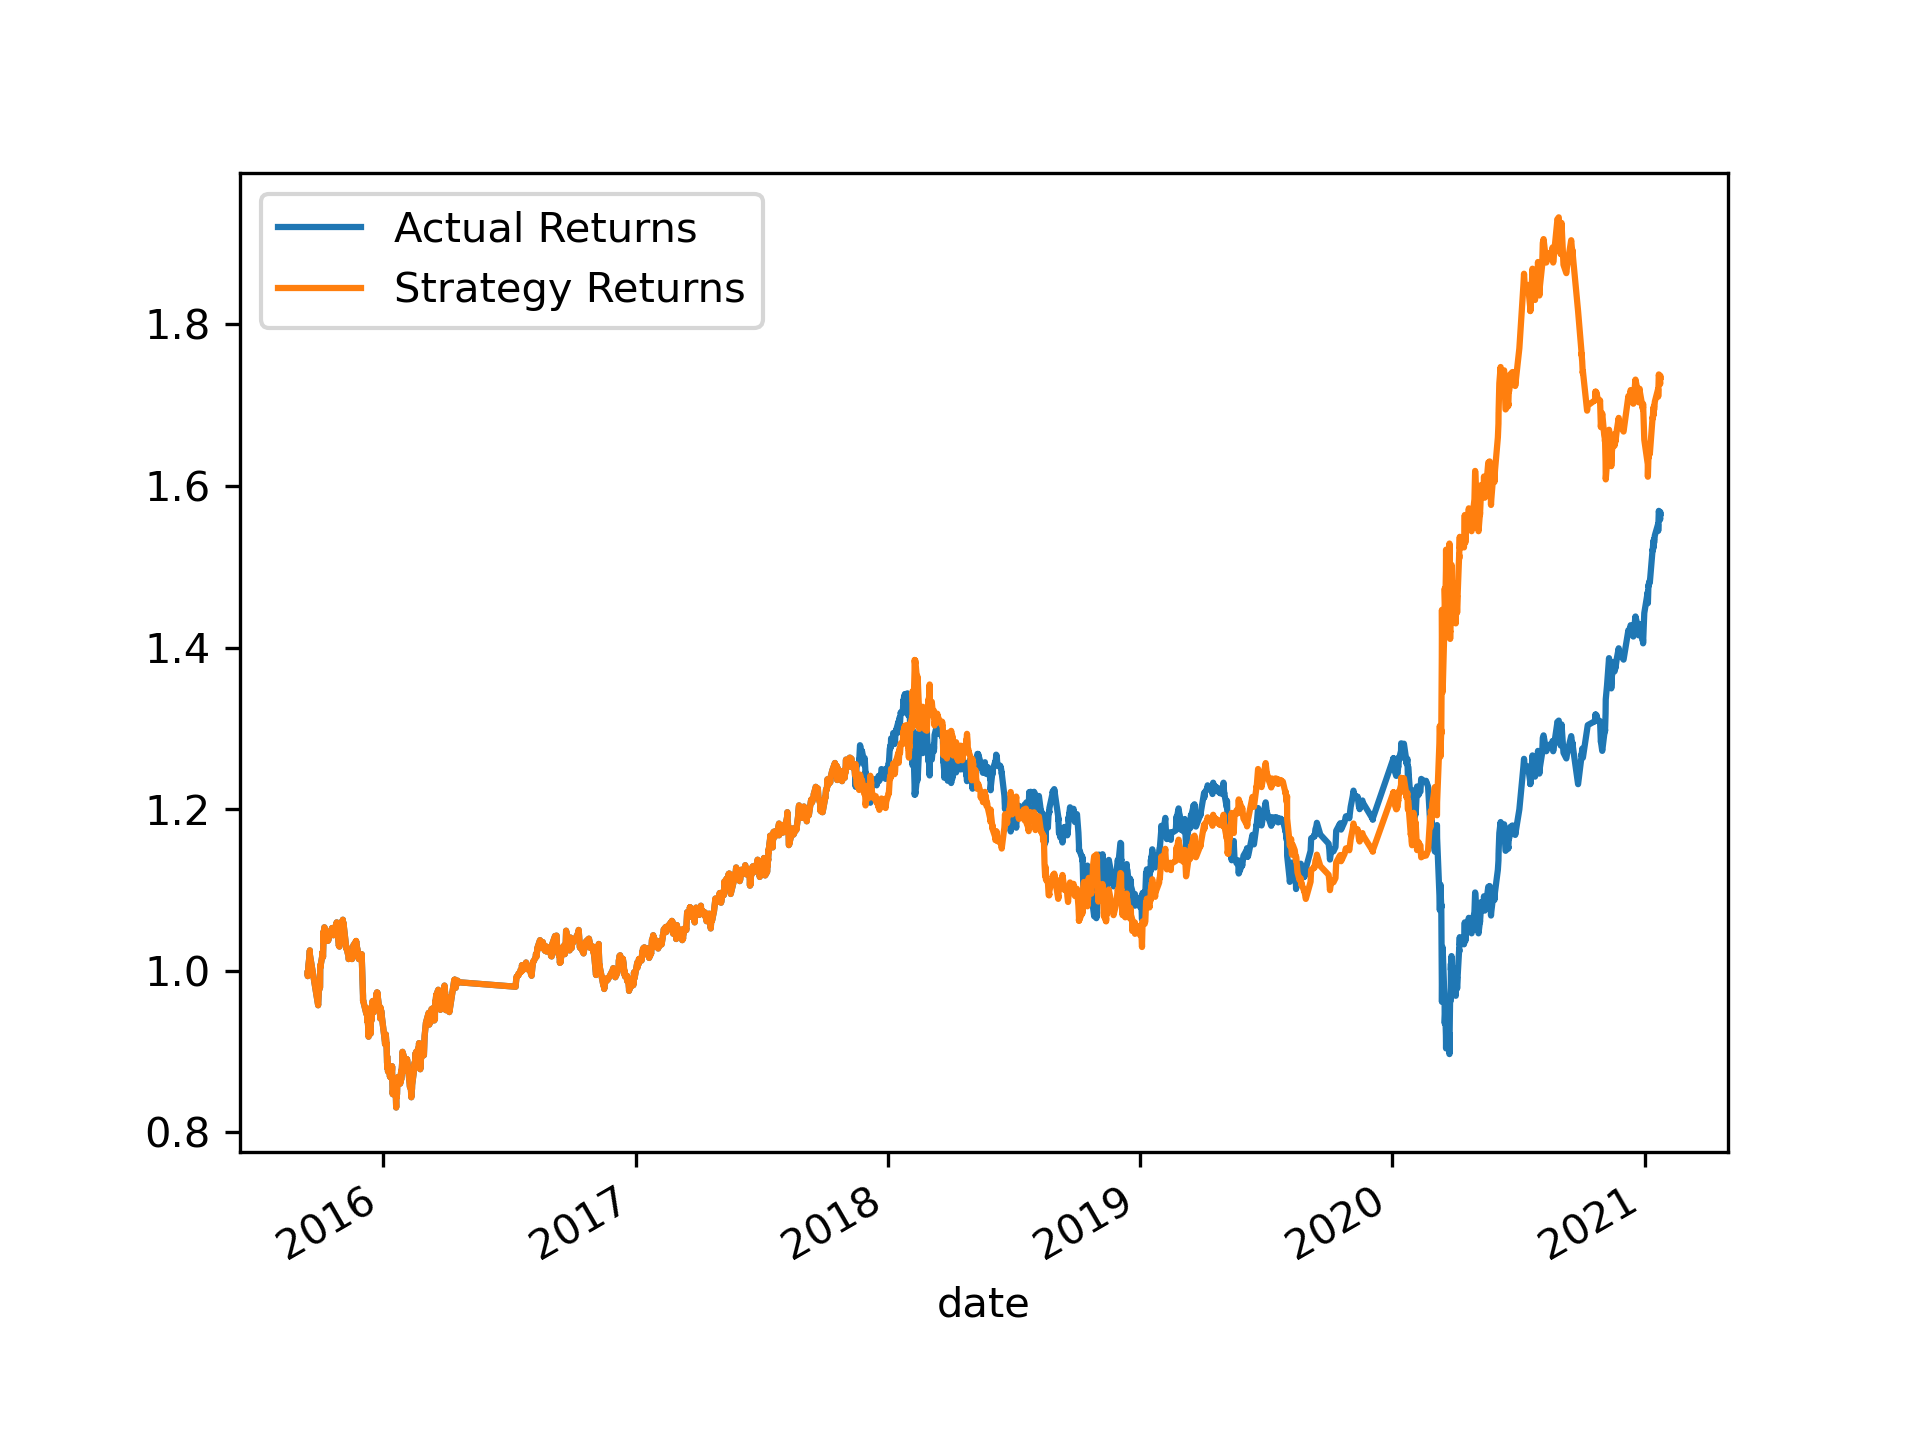
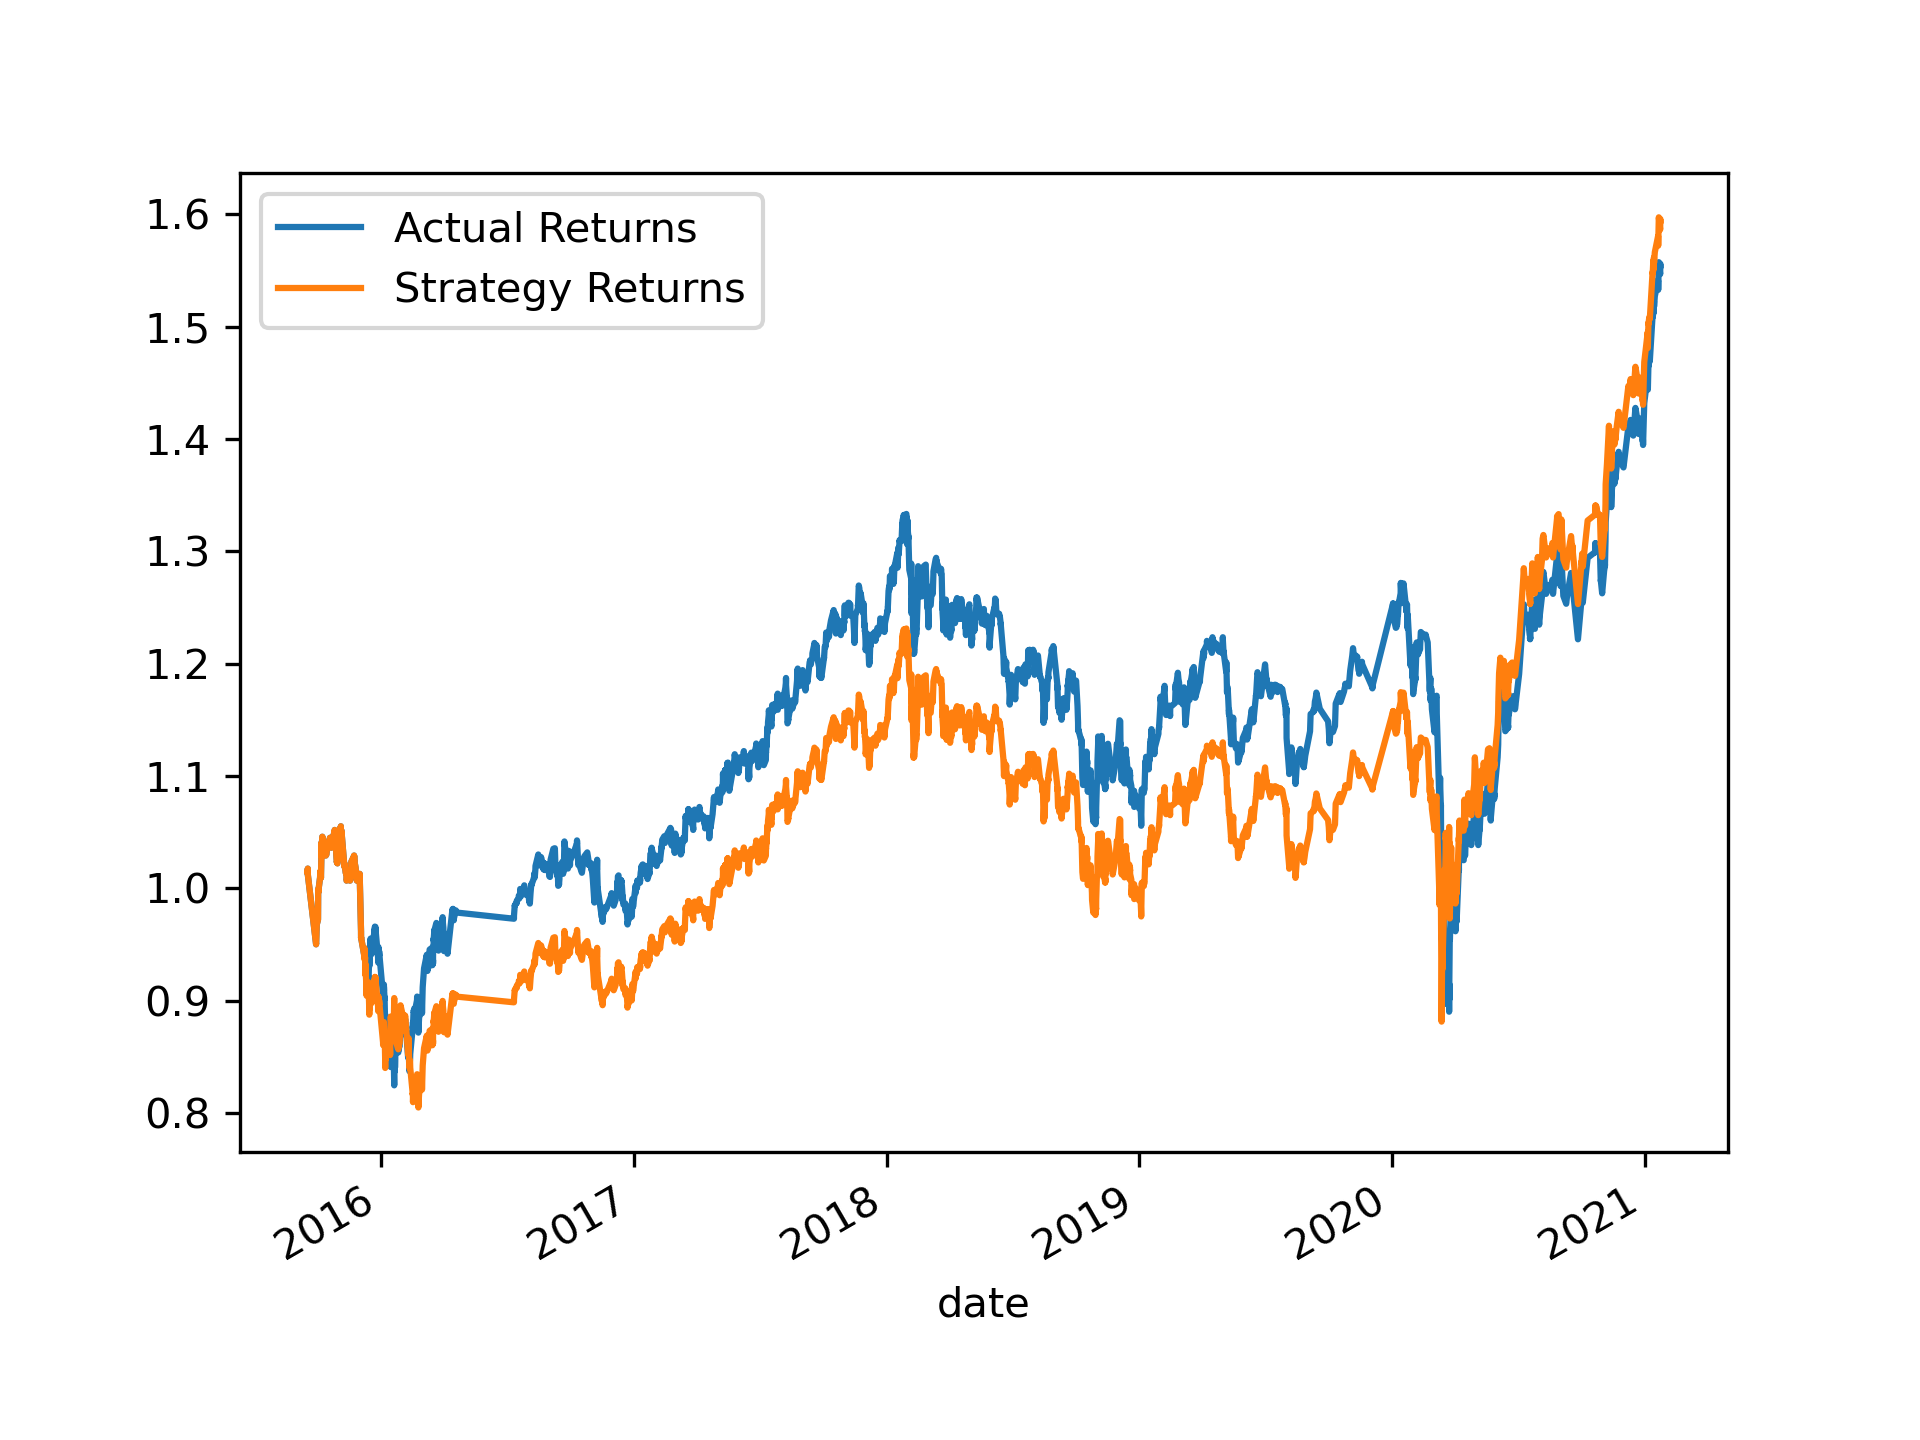
Tune the Baseline Trading Algorithm

diff --git a/README.md b/README.md
@@ -61,6 +61,4 @@ Step 3 -- Choose the set of parameters Short window = 12 and long window = 70 th
 
 ![image](https://github.com/Eyasualemu/Algorithmic_Trading_CH14/assets/44585226/00e0bd7e-3ed8-41c3-8201-15e95e3fc822)
 
-
-
-4. Create an Evaluation Report
+The new model perform better than the provided baseline model.This new model perform better or than the tuned trading algorithm
